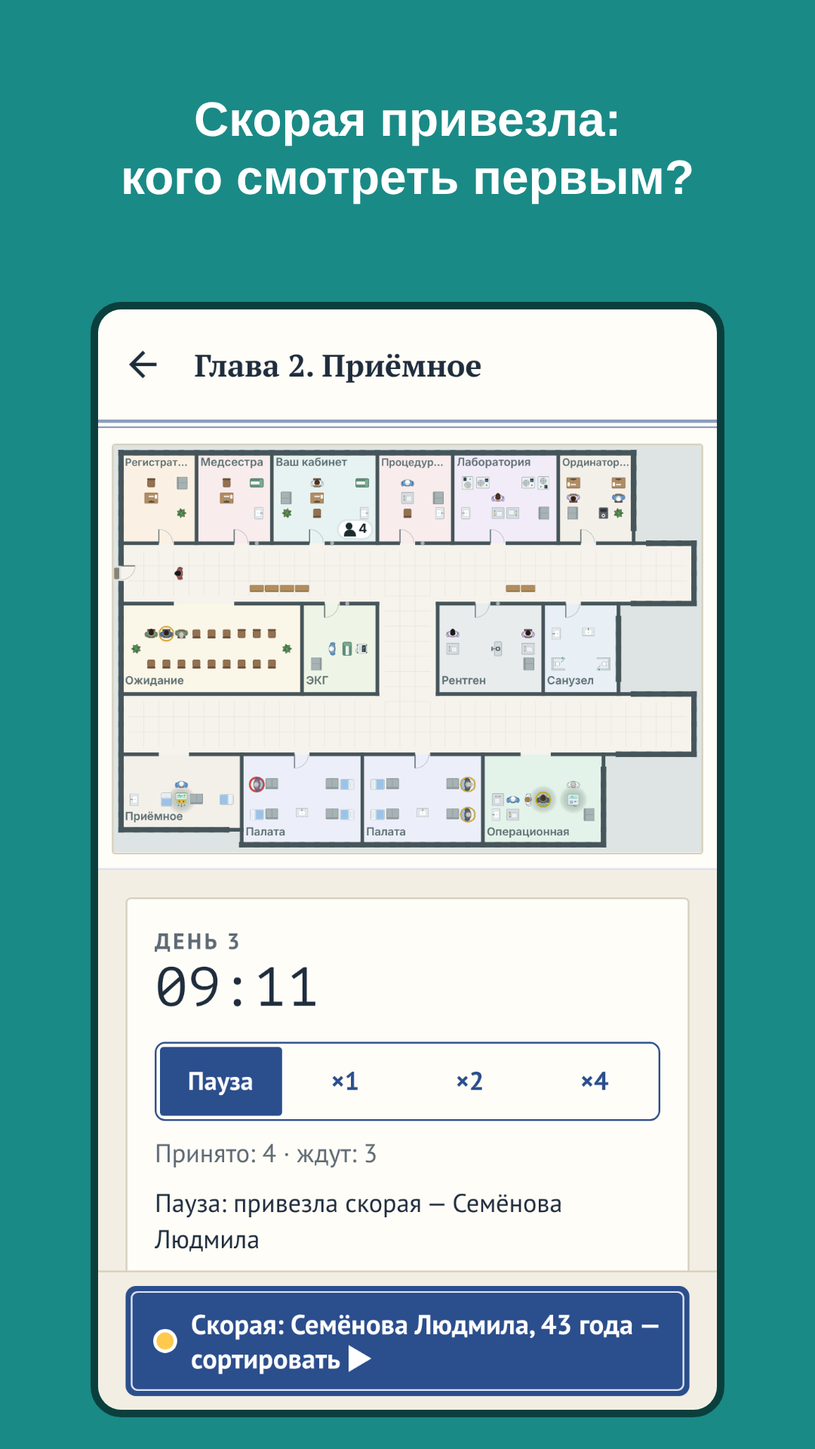
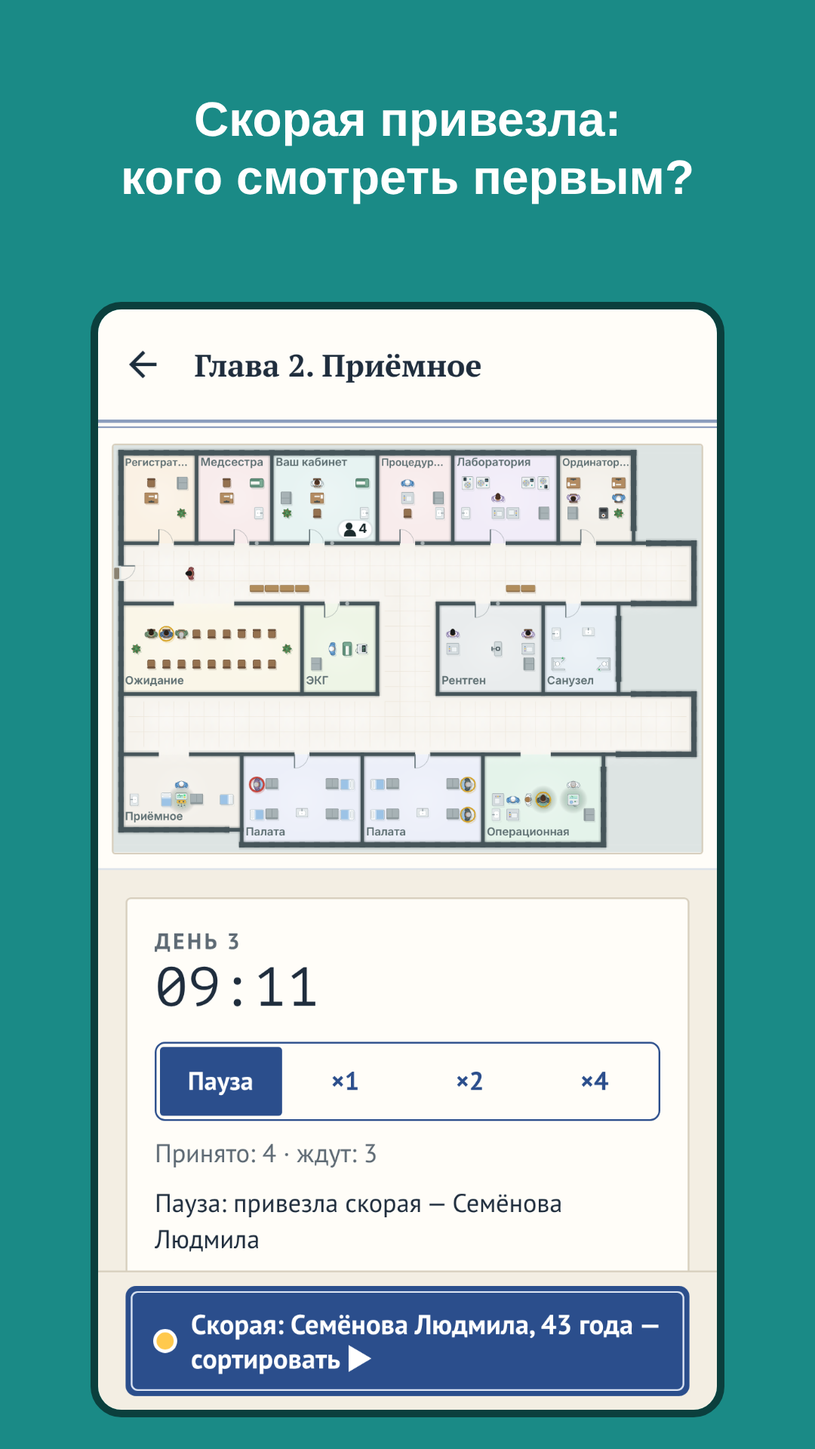
1.1.0 — премиальный вид: версия, «Что нового», снимки магазина, документы
Просьба владельца 31.10.2026: критический проход по качеству подачи и два прохода улучшений
(спецификация docs/specs/2026-10-premium-polish.md; работа — в коммитах выше).

- Версия 1.1.0, versionCode 141; база 83, новых идентификаторов нет.
- «Что нового» — в «Об игре», раздел 1.1.0 в README, в карточке (393 знака).
- Снимки магазина пересняты на 1.1.0 и сверены с прежними попиксельно и глазами: заменены те,
  где поменялась игра, — «Скорая привезла» и «Своя больница» (свет на плане), «Честный разбор»
  (штамп вердикта и медали), обе обложки; остальные — прежние (отличие только в сглаживании).
- README: разделы 0.6.8–0.6.1 перенесены дословно в журнал (с разделом 1.1.0 README подошёл к
  30 КБ, правило устава); теперь 20,6 КБ.
- STATUS (выпущена 1.0.0, сборка 124), дорожная карта, журнал.

Проверки: линтер и типы — без замечаний; полный прогон тестов — 2017 из 2017; сценарий в
браузере — 438 из 438, ошибок в консоли нет.

Claude-Session: https://claude.ai/code/session_01L25NsoAfKYPftpG2eaN9Vv

diff --git a/src/i18n/sections/about.ts b/src/i18n/sections/about.ts
@@ -9,8 +9,9 @@ export const about = {
   whatsNew: 'Что нового',
   // то же, что раздел версии в README.md (05-process.md, чек-лист выпуска)
   news: [
-    'Выпуск 1.0 — первый в RuStore: кампания в четырёх главах, своя больница, «Смена», «Случай дня», испытания и сценарии на неделю.',
-    'Пометки «в разработке» в меню и «Об игре» больше нет; статьи медицинской базы по-прежнему черновые — сведения упрощены для игры.',
+    'Вид как у готовой игры: экран загрузки с кривой ЭКГ, на плане больницы — свет ламп и тени мебели и людей.',
+    'Звуки приборов: манжета тонометра, пульсоксиметр, рентген и пробирки — когда вы назначаете обследование.',
+    'Итоги дня — одной карточкой с главными числами; «Глава пройдена» и медали достижений; на итоге приёма — штамп «Верно».',
   ],
   baseTitle: 'Медицинская база',
   base: (version: number, conditions: number, findings: number, exams: number, treatments: number) =>

diff --git a/README.md b/README.md
@@ -41,8 +41,20 @@ npm run android                      # отладочная сборка на т
 
 ## Версии
 
-Разделы версий 0.6.0 и старше — в журнале по месяцам: [`2026-10`](docs/journal/2026-10.md#разделы-версий-из-readme),
-[`2026-09`](docs/journal/2026-09.md) (перенесены дословно, 28.10.2026 — с 0.5.14 по 0.6.0). Здесь — разделы 0.6.1 и новее.
+Разделы версий 0.6.8 и старше — в журнале по месяцам: [`2026-10`](docs/journal/2026-10.md#разделы-версий-из-readme),
+[`2026-09`](docs/journal/2026-09.md) (перенесены дословно: 28.10.2026 — с 0.5.14 по 0.6.0, 31.10.2026 — с 0.6.1 по
+0.6.8). Здесь — разделы 0.6.9 и новее.
+
+### 1.1.0 — премиальный вид (31.10.2026)
+
+- Вид как у готовой игры: экран загрузки с кривой ЭКГ вместо пустого экрана, название игры над оговоркой первого
+  запуска; на плане больницы — затенение у стен, блики ламп в помещениях и коридоре, тени мебели и людей. Просьба
+  владельца 31.10.2026; спецификация — [`2026-10-premium-polish`](docs/specs/2026-10-premium-polish.md).
+- Звуки приборов: манжета тонометра, пульсоксиметр, рентген и пробирки — когда вы назначаете обследование; синтезированы
+  кодом ([`assets/audio/LICENSES.md`](assets/audio/LICENSES.md)). Расспрос и осмотр руками — без звука.
+- Итоги дня — одной карточкой: «День N закрыт» и главные числа плитками, под ними — только то, чего в плитках нет;
+  «Глава пройдена» — своей карточкой; у достижений — медаль; на итоге приёма — вердикт штампом: зелёным «Верно»,
+  жёлтым «Почти: та же тактика», красным «Неверно». Экраны сменяются сдвигом.
 
 ### 1.0.0 — первый выпуск в RuStore (31.10.2026)
 
@@ -166,81 +178,3 @@ npm run android                      # отладочная сборка на т
   кровь, чьи анализы в работе и к которому часу будут.
 - Несколько назначений разом — сначала то, что делают в кабинете (мазок, глюкометр), потом процедурная и снимки.
   Привезённый скорой ждёт результатов на своей койке.
-
-### 0.6.8 — значки строк карты (22.10.2026)
-
-- У каждой строки карты пациента — значок: у жалобы, находки, анализа, обследования, назначения и болезни, рисунок в
-  кружке. Ответ на вопрос 49 — вариант А, без заливки и перечёркивания.
-- Есть у пациента — красным, нет — синим, неизвестно — серым пунктиром с «?»; в «Мониторе» — коралловым и голубым.
-  В «Известно» найденное — «есть», «без особенностей» — «нет»; в карточке гипотезы — за и против, «Не проверено» —
-  серым; у не сделанного обследования и у вопроса — серым. У болезни в ряду гипотез — система органов, без цвета:
-  значок не подсказывает диагноз.
-- В листе назначений назначенное — цветом выбора, остальное — серым; значок — таблетка, капельница, укол, ингалятор.
-
-### 0.6.7 — сборка вместо 0.6.6 (18.10.2026)
-
-- 0.6.6 и 0.6.4 не собрались: в сценарии в браузере не очищался поиск в листе назначений. Эта версия заменяет 0.6.6 —
-  APK с ней; код игры тот же.
-- В фоне амбулатории — далёкие голоса: очередь за стеной, слов не разобрать (из 0.6.6).
-- Телефон регистратуры звонит изредка, пока играет фон (из 0.6.6).
-- «Лицензии» — раздел «Звуки»: голоса и телефон с авторами (из 0.6.6).
-
-### 0.6.6 — голоса и телефон регистратуры (17.10.2026)
-
-- В фоне амбулатории — далёкие голоса: гул разговоров в очереди за стеной, слов не разобрать. Чуть тише гула
-  вентиляции; шаги и двери слышны над ними, как прежде. Ответ на вопрос 18 — вариант 3: записи под CC BY с автором в
-  «Лицензиях» (ADR 0019).
-- Телефон регистратуры звонит изредка, пока играет фон: секунда звона, четыре секунды паузы, три звонка — и трубку
-  сняли; раз в 2–5 минут, вдали.
-- «Об игре» → «Лицензии» — раздел «Звуки»: голоса — запись Ed Visoso, телефон — Cloud16 Films; со ссылками, тем, что
-  изменено, и текстом CC BY.
-
-### 0.6.5 — бейдж врача и доска гипотез (17.10.2026)
-
-- Главное меню: бейдж вашего врача — портрет в белом халате, имя, звание, сколько принято и доля верных диагнозов; в
-  «Медкарте» — с личной печатью врача, в «Мониторе» — цифрами, как на мониторе у постели. Касание бейджа — профиль.
-  Ответ на вопрос 47 — вариант А.
-- «Случай дня» — прямо в главном меню, листком календаря с сегодняшним числом: «один пациент в день», «сегодня
-  начат» или «сегодня сыгран» с оценкой. Из «Быстрой игры» он ушёл.
-- «Карта» пациента — из двух частей с переключателем сверху: «Результаты» — журнал, «Гипотезы» — «Похоже на», ваш ряд
-  и правила решения. У каждой части своя прокрутка, у «Результатов» — число новых. Ответ на вопрос 46 — вариант 1.
-
-### 0.6.4 — фибрилляция после полуночи (17.10.2026)
-
-- Фибрилляция желудочков после полуночи — ещё ночь тех суток, когда больного положили. Сутки в больнице — с 08:00 до
-  08:00; прежде они считались от полуночи, и в палате без монитора такой больной умирал ночью позже — пережив обход, а в
-  ПИТ строка «За сутки — фибрилляция желудочков» выходила не на ближайшем обходе, а на следующем.
-- Бывает редко: фибрилляция — в первые 12 часов инфаркта с подъёмом ST, а после полуночи — только у привезённых к концу
-  смены.
-
-### 0.6.3 — доступность, случай дня и режим разработчика (17.10.2026)
-
-- Случай дня: «Назад» посреди приёма больше не сбрасывает его — вошли снова в тот же день, и приём с того же места,
-  даже после перезапуска игры; в списке дней такой день помечен «начат». Законченный приём, как прежде, можно
-  переиграть заново — засчитывается первая попытка.
-- Всё, что нажимается в новой карте пациента, — не меньше 48 dp: «ещё N — без особенностей» в беседе, строка
-  сделанного обследования, «Решение», «Без особенностей». Разбор доступности — впервые после 0.0.29.
-- Крупный текст на маленьком экране: панель места на фигуре больше не сдвигает вкладки за нижний край — сжимается до
-  свободного места; так же — список вопросов в беседе.
-- Поля «Имя» и «Фамилия» в форме врача — с названиями для чтения с экрана.
-- Режим разработчика: «Проверки на телефоне» в настройках скрыты — их открывают семь касаний строки версии в «Об игре»;
-  выключатель — в настройках, над проверками.
-
-### 0.6.2 — профиль с графиками (16.10.2026)
-
-- Профиль прибран: главное — плитками сверху: сколько принято, доля верных диагнозов, минуты и рубли на приём.
-- Итог диагнозов — одной полосой из трёх частей с легендой, оценки приёмов — полосами A–D от общего основания.
-- Антибиотики по показаниям и направления в стационар — шкалами «N из M», специальности — шкалой до следующего
-  уровня. Каждое число подписано, цвет — не единственный носитель смысла: у частей полосы — значки ✓, ≈, ✗.
-- Звание и достижения — строкой, как прежде: шкалы «осталось» в профиле нет. Архив — первые 10 приёмов, остальные —
-  по кнопке «Показать все».
-
-### 0.6.1 — смена, где принимаете только вы (16.10.2026)
-
-- В «Смене» — «Кто принимает»: вы и нанятые врачи, как прежде, или только вы. Выбор — там, где работают нанятые
-  врачи: в городской больнице главы 4 и в своей из песочницы, если в ней есть терапевт или специалист.
-- Только вы — нанятые врачи в этот день не принимают: к ним не записываются, новых они не берут, на карте их кабинеты
-  пусты. Все пришедшие — ваши; медсёстры, лаборанты, врачи, что описывают снимки, хирурги и реаниматологи работают.
-  В городской больнице это день одного врача: записанных — 12 вместо 59, без записи и со скорой — те же люди.
-- Итог — «принимаете один», лучший результат такой смены — свой: сравнивать его с днём, когда работали нанятые врачи,
-  нечестно.

diff --git a/docs/07-roadmap.md b/docs/07-roadmap.md
@@ -102,7 +102,12 @@
 **Выпуск 1.0.0** — PR готов 31.10.2026, до проверки названия по ФИПС, и сливается после неё (вопрос 65,
 [#196](https://github.com/Nefeste/anamnez/issues/196)); код и база — как в 0.6.19, в игре нет пометки «в разработке».
 После публикации — страница сайта «В RuStore» (агент), токен сайта и закрытие репозитория (владелец,
-ADR [0021](adr/0021-private-after-release.md)).
+ADR [0021](adr/0021-private-after-release.md)). Тег `v1.0.0` — 31.10.2026, сборка 124 зелёная.
+
+**1.1.0 — премиальный вид** (просьба владельца 31.10.2026: критический проход по всем экранам, два прохода улучшений) —
+экран загрузки, свет и тени на плане, звуки приборов, итоги дня и главы, медали и штамп вердикта; спецификация —
+[`specs/2026-10-premium-polish.md`](specs/2026-10-premium-polish.md). Публиковать первой 1.0.0 или сразу 1.1.0 — решает
+владелец.
 
 Части 87–96 (релизы 0.6.8–0.6.19) сделаны и перенесены в журнал дословно 28.10.2026 — в раздел
 «[Дорожная карта: сделанные части 87–96 (перенос 28.10.2026)](journal/2026-10.md#дорожная-карта-сделанные-части-8796-перенос-28102026)»;

diff --git a/store/listing.ru.md b/store/listing.ru.md
@@ -78,7 +78,7 @@
 ## Что нового
 
 ```
-Первый выпуск в RuStore. Смена в поликлинике и больнице: расспрос, осмотр, анализы и снимки, диагноз, лечение и честный разбор каждого приёма. Кампания в четырёх главах — от амбулатории в посёлке до городской больницы с реанимацией, своя больница, «Смена», «Случай дня», испытания и сценарии на неделю. Больше 110 болезней и травм; без рекламы и без интернета.
+Вид как у готовой игры: экран загрузки, свет ламп и тени на плане больницы, звуки приборов — манжеты, пульсоксиметра, рентгена и пробирок. Итоги дня — одной карточкой с главными числами, «Глава пройдена» и медали достижений; на итоге приёма — штамп «Верно». Прежнее — на месте: кампания в четырёх главах, своя больница, «Смена», «Случай дня», испытания и сценарии, больше 110 болезней и травм.
 ```
 
 ## Снимки экрана

diff --git a/docs/specs/README.md b/docs/specs/README.md
@@ -79,4 +79,4 @@
 | [Главы короче: настройка при начале кампании, интересный больной дня, пороги глав](2026-10-short-chapters.md) | 0.6.17 | сделано, ждёт проверки на телефоне |
 | [Первые меры у скорой: кислород, инфузия, глюкоза, давящая повязка](2026-10-first-measures.md) | 0.6.18 | сделано, ждёт проверки на телефоне |
 | [Где ждали: узкие места больницы, второй процедурный кабинет и партии в лаборатории](2026-10-where-waited.md) | 0.6.19 | сделано, ждёт проверки на телефоне |
-| [Премиальный вид: загрузка, свет на плане, звуки приборов, итог смены](2026-10-premium-polish.md) | 1.0.x | сделано в коде, ждёт проверки на телефоне |
+| [Премиальный вид: загрузка, свет на плане, звуки приборов, итог смены](2026-10-premium-polish.md) | 1.1.0 | сделано в коде, ждёт проверки на телефоне |

diff --git a/docs/specs/2026-10-premium-polish.md b/docs/specs/2026-10-premium-polish.md
@@ -1,6 +1,6 @@
 # Премиальный вид: загрузка, свет на плане, звуки приборов, итог смены
 
-**Версия:** 1.0.x (ветка `wip/premium`) **Состояние:** сделано в коде, ждёт проверки на
+**Версия:** 1.1.0 **Состояние:** сделано в коде, ждёт проверки на
 телефоне (свет плана, звуки приборов, экран загрузки проверены только веб-стендом и Bun)
 
 ## Зачем
